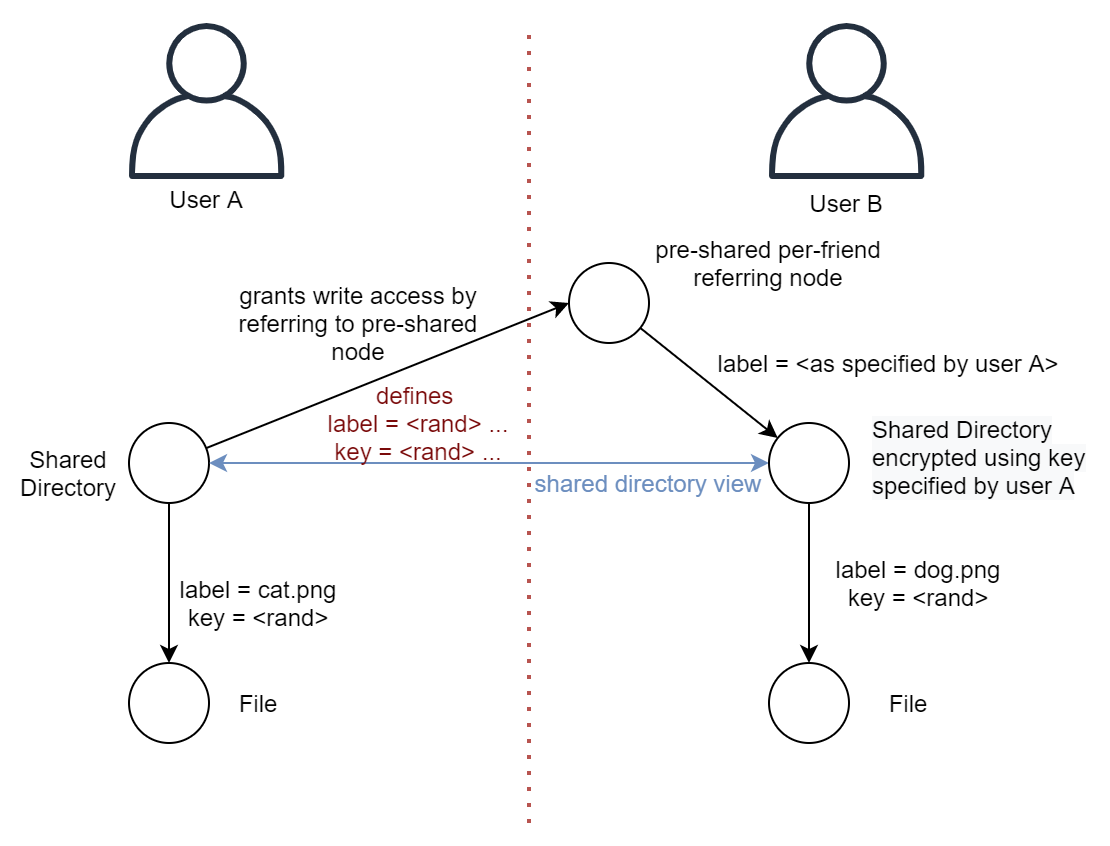
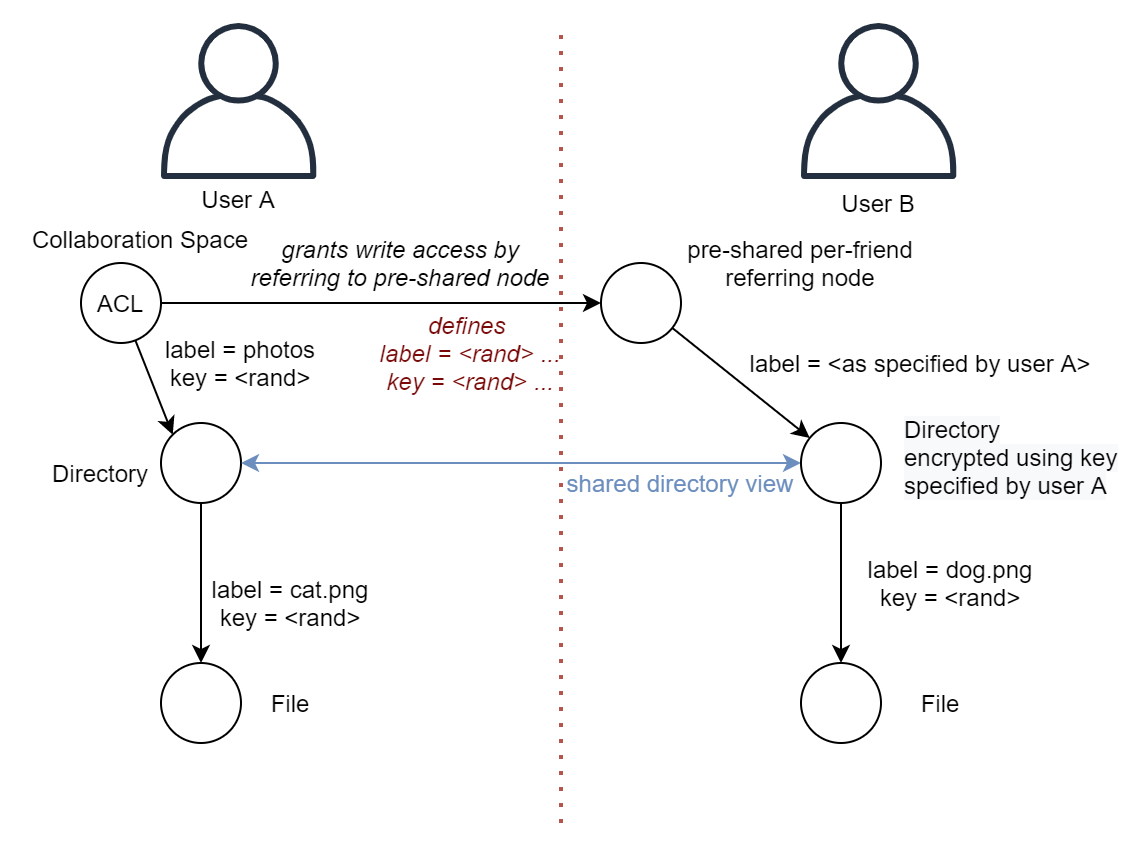
multiwriter

diff --git a/docs/multiwriter.md b/docs/multiwriter.md
@@ -1,0 +1,41 @@
+# Concept for giving Write Access
+
+To rule out a large number of edge cases, write access uses a rather simplified concept of *Collaboration-Spaces*.
+*(Here, a directory in terms of graph theory is a vertex and all its edges, including the referenced nodes)*
+A space typically is is a directory, but technically works independently of it.
+Multiple spaces can intersect, but write permissions in one do not automatically give write permissions in the other - even if the directory structure would suggest that.
+A space is owned by one user and its definition can only be modified by that user.
+
+It is implemented using an Access-Control-List (ACL) composed of:
+
+- a root vertice (or a number of it)
+- included directories (array of path specifications - allow wildcards?)
+- shared directories that are merged into the root vertice (root vertice id : shared vertice id pairs)
+  - in case of revokation, the referenced vertex can either be removed (which removes all of the files of the user)
+   or the vertex is pinned to a certain version
+- optionally a view merging strategy
+
+Spaces create a merged directory view - if there are multiple intersecting spaces, that happens independently of each other!
+To create such a view various strategies are possible, the simplest one (and therefore initiall implemented) is only using timestamps (last-write-wins).
+
+To allow one user deleting an other user's file or directory, *thombstones* are created. These are special vertices that define that a file should not be included in the view, unless there is a newer version of it than the *thombstone*.
+
+For more fine-grained access control, *sub-spaces* can be created. These define additional rules as a subset of the parent space. These subspaces inherit its parent's properties and can define additional shared directories.
+
+In case of intersecting spaces, an additional space *should* be defined (automatically?), which inherits from both spaces. These are called *inter-spaces* and can define their own behaviour. This allows for both parent spaces to have the same view of the data.
+
+*TODO: how to handle inter-spaces of different users*
+
+## Technical Details
+
+A space definition is a graph vertex containing the ACL. These can then be referenced like directories, but act as referrer-nodes.
+
+There are two possible ways to archive that on the graph-layer (likely both are implemented):
+
+1. directly referencing to files and directories in the graph
+   - can be archieved by requesting write permissions - these requests then contain the directory
+2. using pre-shared referrer nodes
+    - allows instant and asynchronous permission management
+    - each user shares referrer nodes in advance
+    - when the access permissions are granted the user defines the label at the referrer node and the encryption key to encrypt the shared directory node
+    ![preshared-node drawing](https://raw.githubusercontent.com/fsteff/certacrypt/master/docs/writeaccess-preshared-node.png)
